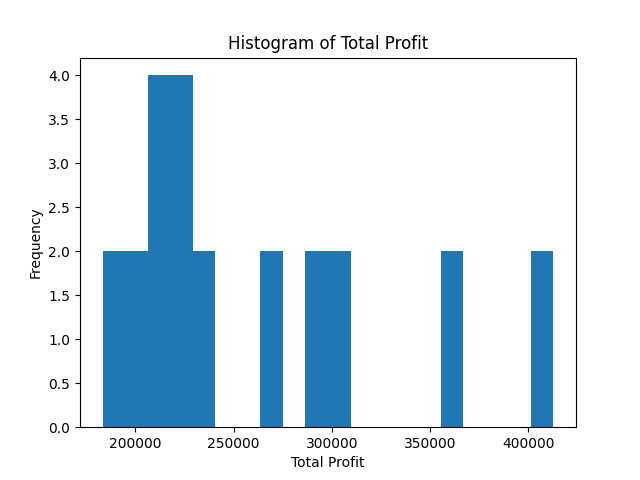
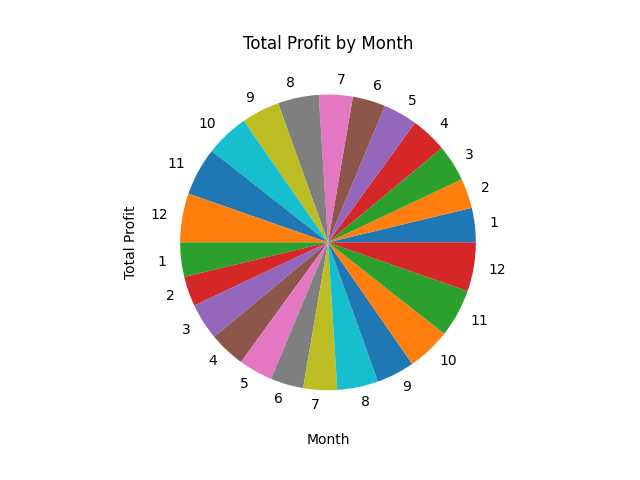
Made corrections

diff --git a/templates/graphy.html b/templates/graphy.html
@@ -21,6 +21,7 @@
     />
     <script src="https://cdn.jsdelivr.net/npm/bootstrap@5.0.2/dist/js/bootstrap.min.js"></script>
     <title>NLPeXpert's Chatbot</title>
+    <link rel="icon" type="image/x-icon" href="../static/logo.png">
     <link
       rel="stylesheet"
       href="https://use.fontawesome.com/releases/v5.5.0/css/all.css"
@@ -159,6 +160,49 @@
                 style="display: none"
               />
             </button>
+            <div
+              class="modal fade"
+              id="list_modal"
+              tabindex="-1"
+              aria-labelledby="tableModalLabel"
+              aria-hidden="true"
+            >
+              <div class="modal-dialog modal-dialog-centered">
+                <div class="modal-content">
+                  <div class="modal-header">
+                    <h5 class="modal-title" id="tableModalLabel">Tables</h5>
+                    
+                    <button
+                      type="button"
+                      class="close"
+                      data-dismiss="modal"
+                      aria-label="Close"
+                    >
+                      <span aria-hidden="true">&times;</span>
+                    </button>
+                  </div>
+                  <div class="modal-body">
+                    <div id="Dtable_modal_body">
+                      <!-- Dynamic list items will be appended here -->
+                    </div>
+                  </div>
+                  <div class="modal-footer">
+                    <button type="button" class="btn btn-danger" style=" font-weight: bold">
+                      <a href="{{ url_for('Download_CSV') }}" style="color: black;text-decoration: none; ">
+                        Download the Table</a
+                      >
+                    </button>
+                    <button
+                      type="button"
+                      class="btn btn-secondary"
+                      data-dismiss="modal"
+                    >
+                      Close
+                    </button>
+                  </div>
+                </div>
+              </div>
+          </div>
           </div>
         </div>
       </div>

diff --git a/templates/index.html b/templates/index.html
@@ -23,6 +23,7 @@
     />
     <script src="https://cdn.jsdelivr.net/npm/bootstrap@5.0.2/dist/js/bootstrap.min.js"></script>
     <title>NLPeXpert's Chatbot</title>
+    <link rel="icon" type="image/x-icon" href="../static/logo.png">
     <link
       rel="stylesheet"
       href="https://use.fontawesome.com/releases/v5.5.0/css/all.css"
@@ -168,9 +169,7 @@
                 <div class="modal-content">
                   <div class="modal-header">
                     <h5 class="modal-title" id="tableModalLabel">Tables</h5>
-                    <a href="{{ url_for('Download_CSV') }}">
-                      Download the Table</a
-                    >
+                    
                     <button
                       type="button"
                       class="close"
@@ -186,6 +185,11 @@
                     </div>
                   </div>
                   <div class="modal-footer">
+                    <button type="button" class="btn btn-danger" style=" font-weight: bold">
+                      <a href="{{ url_for('Download_CSV') }}" style="color: black;text-decoration: none; ">
+                        Download the Table</a
+                      >
+                    </button>
                     <button
                       type="button"
                       class="btn btn-secondary"
@@ -196,7 +200,7 @@
                   </div>
                 </div>
               </div>
-            </div>
+          </div>
           </div>
           <br />
         </div>

diff --git a/dynamic_script.py b/dynamic_script.py
@@ -1,18 +1,17 @@
 import matplotlib.pyplot as plt
 import pandas as pd
-import numpy as np
 
-# Read the data from the CSV file
-data = pd.read_csv('output.csv')
+# Read the CSV file into a DataFrame
+df = pd.read_csv('output.csv')
 
-# Get the total profit column
-total_profit = data['total_profit']
+# Calculate the total profit for each month
+df['total_profit'] = df['facecream'] + df['facewash'] + df['toothpaste'] + df['bathingsoap'] + df['shampoo'] + df['moisturizer']
 
-# Draw the histogram
-plt.hist(total_profit, bins=20)
-plt.xlabel('Total Profit')
-plt.ylabel('Frequency')
-plt.title('Histogram of Total Profit')
+# Create a pie chart of the total profit for each month
+plt.pie(df['total_profit'], labels=df['month_number'])
+plt.title('Total Profit by Month')
+plt.xlabel('Month')
+plt.ylabel('Total Profit')
 
 # Save the plot as a PNG file
 plt.savefig('static/graph.png')

diff --git a/app.py b/app.py
@@ -14,7 +14,6 @@ import subprocess
 # load_dotenv()
 # GOOGLE_API_KEY = os.getenv('GOOGLE_API_KEY')
 # Load google api key
-
 app = Flask(__name__)
 CORS(app)
 db_name = "mydatabase.db"
